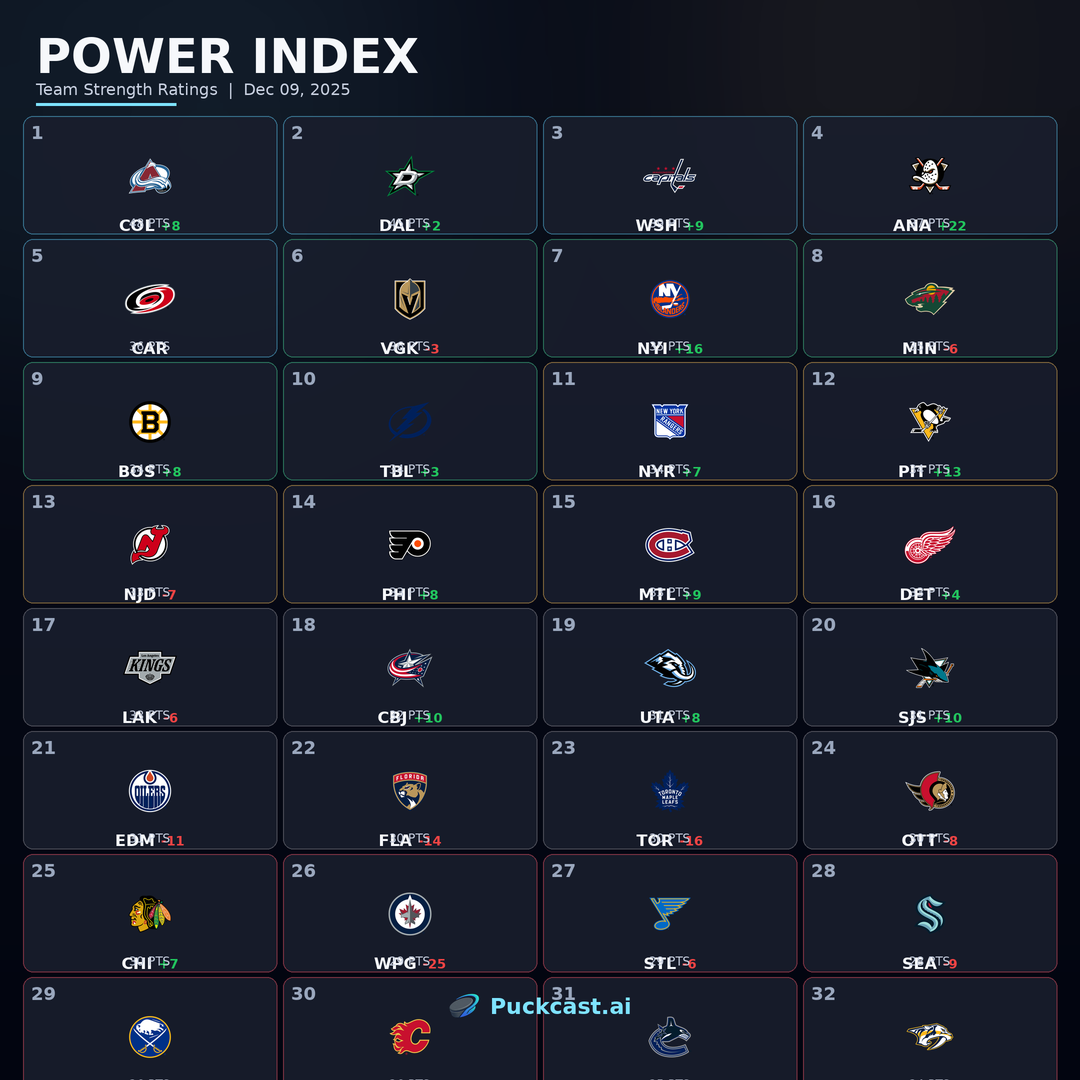
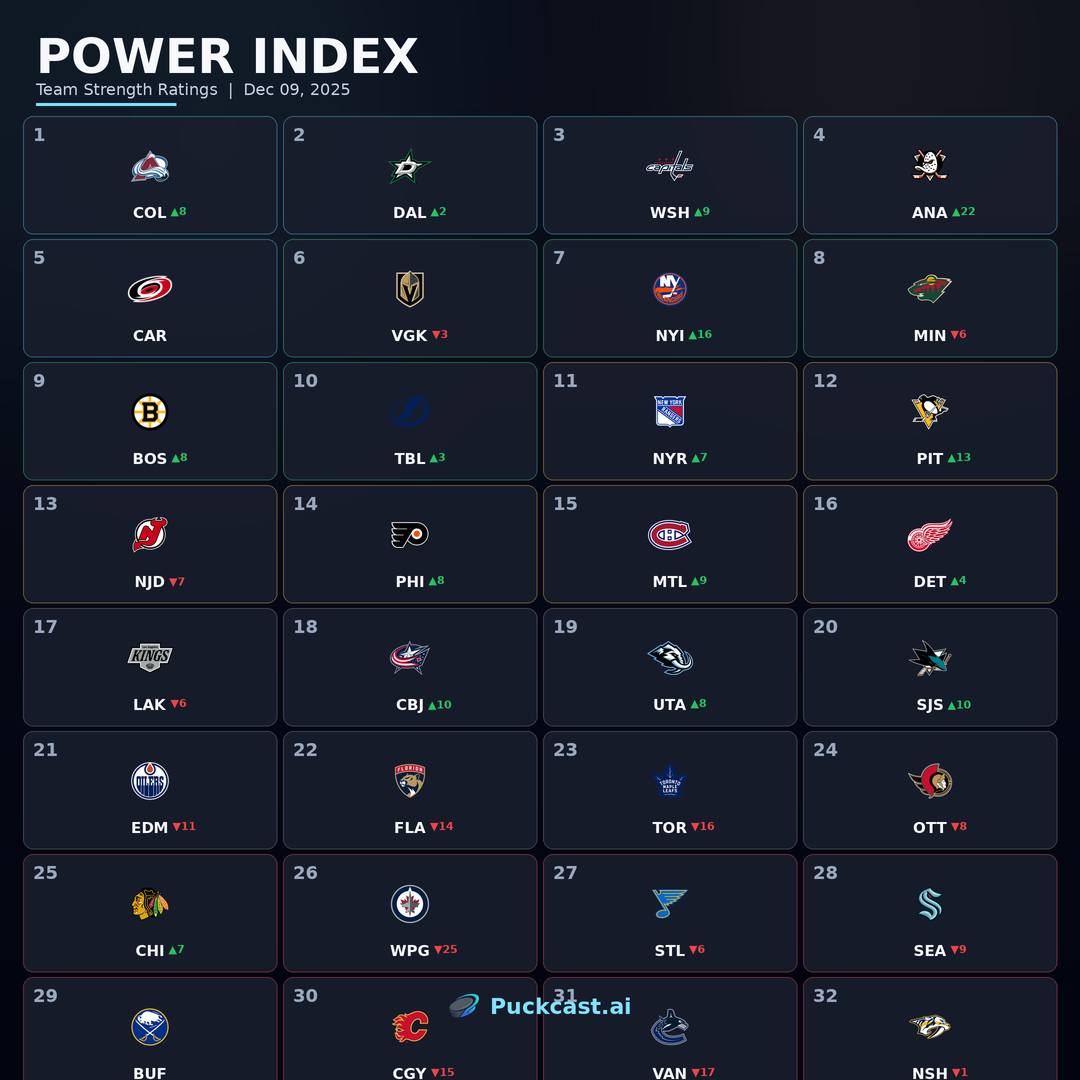
fix: clean up Power Index tile layout
- Remove overlapping PTS text that was cramming into abbreviation
- Cleaner layout: rank, logo, abbreviation + movement arrow only
- Use ▲/▼ arrows for movement indicators
- Proper spacing between elements

diff --git a/graphics/templates/power_rankings.py b/graphics/templates/power_rankings.py
@@ -62,13 +62,11 @@ def draw_team_tile(
     tile_width: int,
     tile_height: int,
 ) -> None:
-    """Draw a premium team tile with large logo and stats."""
+    """Draw a clean team tile with rank, logo, and abbreviation."""
     abbrev = team.get("abbrev", "???")
     rank = team.get("rank", 0)
     delta = team.get("rankDelta", 0)
     tier = team.get("tier", "bubble")
-    record = team.get("record", "0-0-0")
-    points = team.get("points", 0)
 
     tier_color = TIER_COLORS.get(tier, TIER_COLORS["bubble"])
 
@@ -78,7 +76,7 @@ def draw_team_tile(
 
     # Dark tile background with tier-colored border
     coords = (x, y, x + tile_width, y + tile_height)
-    draw_rounded_rect(overlay_draw, coords, radius=S(10), fill=(25, 30, 45, 220), outline=(*tier_color, 120), width=2)
+    draw_rounded_rect(overlay_draw, coords, radius=S(10), fill=(25, 30, 45, 220), outline=(*tier_color, 100), width=2)
 
     img_rgba = img.convert("RGBA")
     result = Image.alpha_composite(img_rgba, overlay)
@@ -87,48 +85,39 @@ def draw_team_tile(
     # Rank number - top left corner
     rank_font = get_font(S(18), bold=True)
     rank_text = str(rank)
-    draw.text((x + S(8), y + S(6)), rank_text, fill=hex_to_rgb(PuckcastColors.TEXT_TERTIARY), font=rank_font)
+    draw.text((x + S(10), y + S(8)), rank_text, fill=hex_to_rgb(PuckcastColors.TEXT_TERTIARY), font=rank_font)
 
-    # Large team logo - centered
-    logo_size = S(72)
+    # Team logo - centered vertically in tile
+    logo_size = S(64)
     logo = get_logo(abbrev, logo_size)
     logo_x = x + (tile_width - logo_size) // 2
-    logo_y = y + S(24)
+    logo_y = y + S(18)
     result.paste(logo, (logo_x, logo_y), logo)
 
-    # Team abbreviation + movement - centered below logo
-    abbrev_font = get_font(S(16), bold=True)
+    # Team abbreviation centered below logo
+    abbrev_font = get_font(S(15), bold=True)
+    abbrev_bbox = draw.textbbox((0, 0), abbrev, font=abbrev_font)
+    abbrev_w = abbrev_bbox[2] - abbrev_bbox[0]
+    abbrev_h = abbrev_bbox[3] - abbrev_bbox[1]
+    abbrev_x = x + (tile_width - abbrev_w) // 2
+    abbrev_y = logo_y + logo_size + S(6)
+    draw.text((abbrev_x, abbrev_y), abbrev, fill=hex_to_rgb(PuckcastColors.TEXT_PRIMARY), font=abbrev_font)
+
+    # Movement indicator (if any) - small, to the right of abbrev
     if delta != 0:
         if delta > 0:
-            delta_text = f"+{delta}"
+            delta_text = f"▲{delta}"
             delta_color = hex_to_rgb(PuckcastColors.RISING)
         else:
-            delta_text = str(delta)
+            delta_text = f"▼{abs(delta)}"
             delta_color = hex_to_rgb(PuckcastColors.FALLING)
-        # Draw abbrev and delta side by side
-        abbrev_bbox = draw.textbbox((0, 0), abbrev, font=abbrev_font)
-        abbrev_w = abbrev_bbox[2] - abbrev_bbox[0]
-        delta_font = get_font(S(13), bold=True)
+        delta_font = get_font(S(11), bold=True)
         delta_bbox = draw.textbbox((0, 0), delta_text, font=delta_font)
         delta_w = delta_bbox[2] - delta_bbox[0]
-        total_w = abbrev_w + S(6) + delta_w
-        start_x = x + (tile_width - total_w) // 2
-        abbrev_y = logo_y + logo_size + S(4)
-        draw.text((start_x, abbrev_y), abbrev, fill=hex_to_rgb(PuckcastColors.TEXT_PRIMARY), font=abbrev_font)
-        draw.text((start_x + abbrev_w + S(6), abbrev_y + S(2)), delta_text, fill=delta_color, font=delta_font)
-    else:
-        abbrev_bbox = draw.textbbox((0, 0), abbrev, font=abbrev_font)
-        abbrev_w = abbrev_bbox[2] - abbrev_bbox[0]
-        abbrev_y = logo_y + logo_size + S(4)
-        draw.text((x + (tile_width - abbrev_w) // 2, abbrev_y), abbrev, fill=hex_to_rgb(PuckcastColors.TEXT_PRIMARY), font=abbrev_font)
-
-    # Points - bottom of tile
-    stats_font = get_font(S(12), bold=False)
-    stats_text = f"{points} PTS"
-    stats_bbox = draw.textbbox((0, 0), stats_text, font=stats_font)
-    stats_w = stats_bbox[2] - stats_bbox[0]
-    stats_y = y + tile_height - S(18)
-    draw.text((x + (tile_width - stats_w) // 2, stats_y), stats_text, fill=hex_to_rgb(PuckcastColors.TEXT_SECONDARY), font=stats_font)
+        # Position to right of abbreviation
+        delta_x = abbrev_x + abbrev_w + S(4)
+        delta_y = abbrev_y + (abbrev_h - (delta_bbox[3] - delta_bbox[1])) // 2
+        draw.text((delta_x, delta_y), delta_text, fill=delta_color, font=delta_font)
 
     img.paste(result.convert("RGB"))
 
